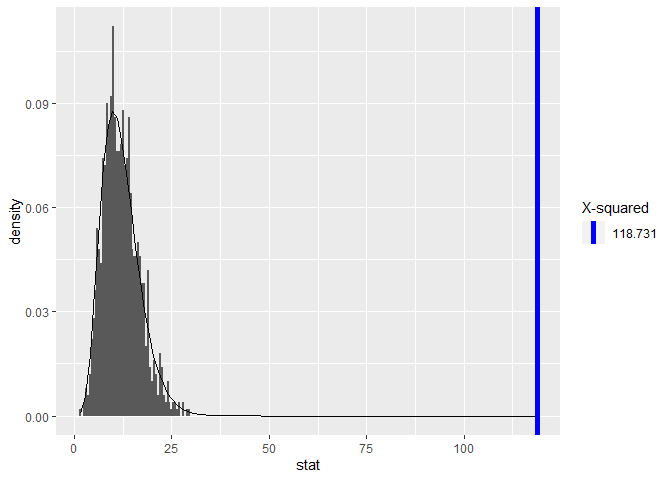
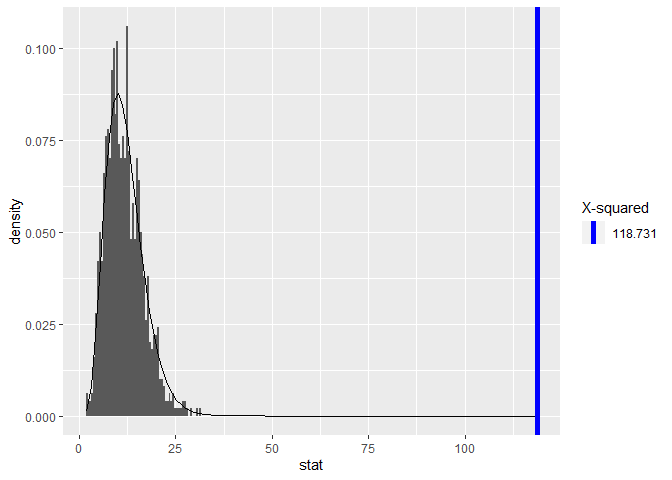
little correction, but overall well done

diff --git a/README.md b/README.md
@@ -25,7 +25,7 @@ Datensatz `euro_startups` analysieren.
 
 Die Daten stammen aus einem größeren Datensatz, *Startup Success/Fail
 Dataset from Crunchbase*, zu finden auf *kaggle* unter folgendem Link:
-<https://www.kaggle.com/datasets/yanmaksi/big-startup-secsees-fail-dataset-from-crunchbase>
+<https://www.kaggle.com/datasets/yanmaksi/big-startup-secsees-fail-dataset-from-crunchbase>.
 Der Datensatz wurde über den folgenden Code generiert:
 
 ``` r
@@ -124,7 +124,7 @@ contingency_table(euro_startups, country_code, status)
 
 Wie wir sehen, gibt es weitaus mehr Beobachtungen von Start-ups in
 Großbritannien, Frankreich und Deutschland als in den anderen fünf
-Ländern. Daher könnte es hilfreich sein, die Prozentsätze jedes Status
+Ländern. Daher könnte es hilfreich sein, die Prozentsätze von `status`
 in jedem Land zu sehen.
 
 Dafür verwenden wir die `contingency_table_scale` Funktion.
@@ -268,16 +268,16 @@ test_independence(euro_startups, country_code, status, 1000, 1000, TRUE);
     #> # A tibble: 1,000 × 2
     #>    replicate  stat
     #>        <int> <dbl>
-    #>  1         1  7.97
-    #>  2         2 20.3 
-    #>  3         3 10.2 
-    #>  4         4  6.66
-    #>  5         5 17.8 
-    #>  6         6 11.0 
-    #>  7         7  8.54
-    #>  8         8  5.36
-    #>  9         9  6.46
-    #> 10        10  8.05
+    #>  1         1 17.3 
+    #>  2         2 20.9 
+    #>  3         3 10.5 
+    #>  4         4  8.31
+    #>  5         5  9.91
+    #>  6         6  7.96
+    #>  7         7 13.3 
+    #>  8         8 13.3 
+    #>  9         9 15.9 
+    #> 10        10 21.8 
     #> # … with 990 more rows
 
 Wir sehen, dass der berechnete Chi-Quadrat-Wert unter der Annahme der
@@ -308,16 +308,16 @@ test_independence(accidents21, accident_severity, day_of_week, 1000, 1000, TRUE)
     #> # A tibble: 1,000 × 2
     #>    replicate  stat
     #>        <int> <dbl>
-    #>  1         1  9.61
-    #>  2         2  7.29
-    #>  3         3 10.8 
-    #>  4         4  5.90
-    #>  5         5 12.2 
-    #>  6         6 14.4 
-    #>  7         7  9.74
-    #>  8         8 12.2 
-    #>  9         9  9.99
-    #> 10        10 10.6 
+    #>  1         1 15.1 
+    #>  2         2 10.2 
+    #>  3         3  7.21
+    #>  4         4 15.5 
+    #>  5         5  4.78
+    #>  6         6 10.8 
+    #>  7         7 18.8 
+    #>  8         8  9.58
+    #>  9         9  4.92
+    #> 10        10  5.30
     #> # … with 990 more rows
 
 In diesem Fall sehen wir, dass der berechnete Chi-Quadrat-Wert weit von
